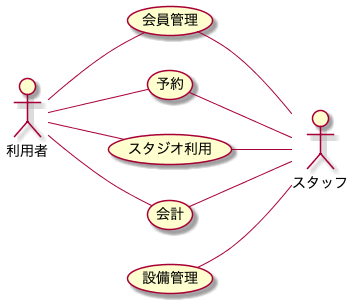
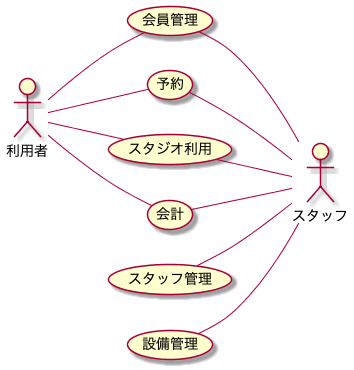
スタッフ管理を設備管理から外に出した。

diff --git a/README.md b/README.md
@@ -51,18 +51,19 @@
 - スタジオ利用
   - 利用者が実際にスタジオを利用する。
   - スタジオ利用中に追加機材を頼むこともある。  
-- 機材返却
-  - レンタル機材が全て返却されたかどうかを確認する。
 
 ## 会計
 ![](./modeling/BusinessUsecase_会計/BusinessUsecase.png)
 - 会計
   - 利用者が支払いを行う。
 
+## スタッフ管理
+![](./modeling/BusinessUsecase_スタッフ管理/BusinessUsecase.png)
+- スタッフ管理
+  - 管理者がスタッフの管理を行う。 
+
 ## 設備管理
 ![](./modeling/BusinessUsecase_設備管理/BusinessUsecase.png)
-- スタッフ管理
-  - 管理者がスタッフの管理を行う。
 - スタジオ管理
   - 管理者がスタジオの管理を行う。
 - 機材管理
@@ -101,10 +102,11 @@
 ### BUC: 会計
 ![](./modeling/BusinessFlow_会計_会計/BusinessFlow.png)
 
-## 設備管理
+## スタッフ管理
 ### BUC: スタッフ管理
-![](./modeling/UsageScene_設備管理_スタッフ管理/UsageScene.png)
+![](./modeling/UsageScene_スタッフ管理_スタッフ管理/UsageScene.png)
 
+## 設備管理
 ### BUC: スタジオ管理
 ![](./modeling/UsageScene_設備管理_スタジオ管理/UsageScene.png)
 
